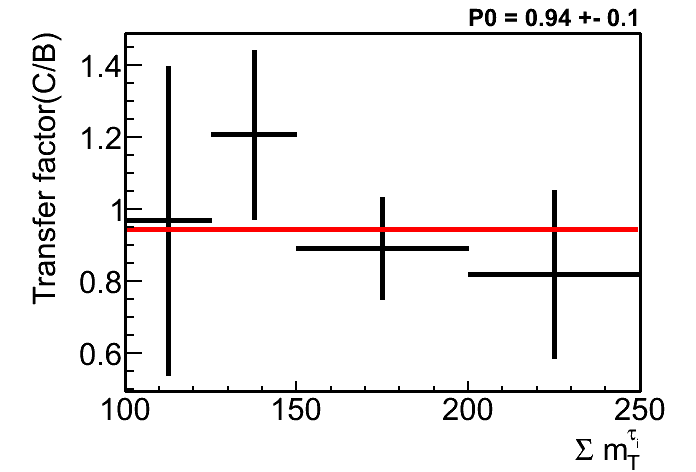
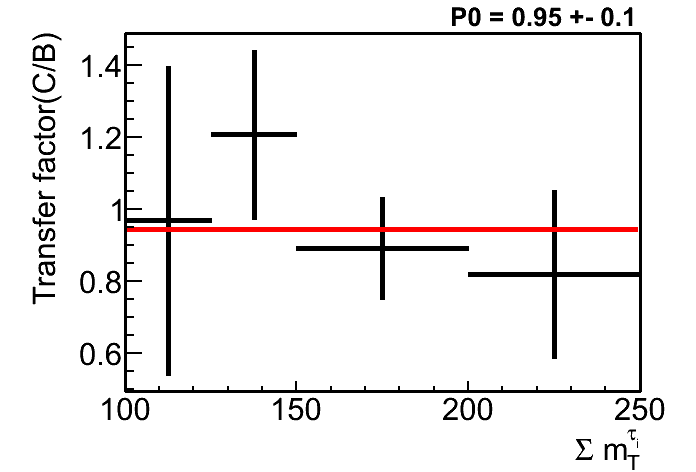
modified:   BackgroundsTauTauQCD.tex

Changed region(s): [[0.6336, 0.0, 0.9353, 0.0593]]

diff --git a/notes/AN-14-275/trunk/BackgroundsTauTauQCD.tex b/notes/AN-14-275/trunk/BackgroundsTauTauQCD.tex
@@ -100,7 +100,7 @@ search\binone& Data      & 6.00+-2.45 &  357.00+-18.89   &430.00+-20.74  &  0.92
              &Data-NonQCD(MC)& 5.35+-2.50    & 334.88+-19.59    &310.14+-29.22   &             &                  &             \\
 \hline
   & Susy          & 0.02+-0.02 &  0.01+-0.01 &  2.80+-0.22 &            &                  &            \\
-search\bintwo& Data          & 8.00 +- 2.83  &292.00+-17.09&348.00+-18.65&  0.94+-0.1 & 0.15 +- 0.09     &0.57 +- 0.79 +- 0.32 (Fit error)          \\
+search\bintwo& Data          & 8.00 +- 2.83  &292.00+-17.09&348.00+-18.65&  0.95+-0.1 & 0.15 +- 0.09     &0.82 +- 0.65 +- 0.07(Fit error)          \\
              &NonQCD(MC)     & 2.35 +- 1.26  &15.23+- 4.14 & 85.97+-5.89  &            &                &             \\
              &Data-NonQCD(MC)& 5.65 +-3.10&  276.77+-17.58    &  262.03+-24.51     &     & &     \\ 
 \hline\hline
